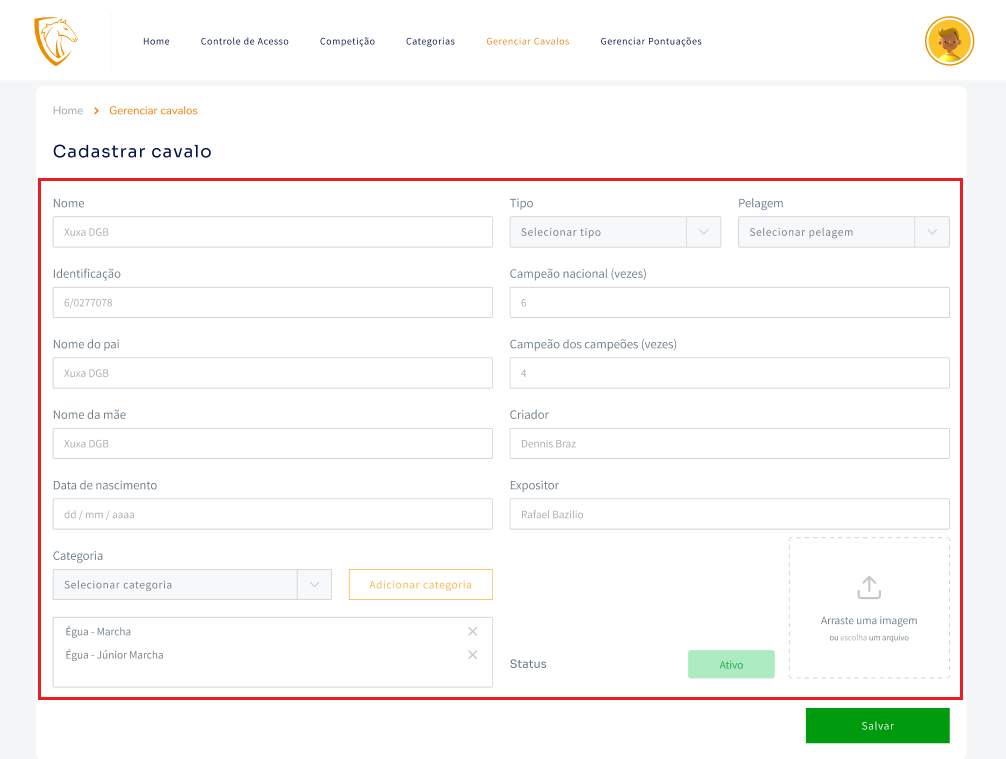
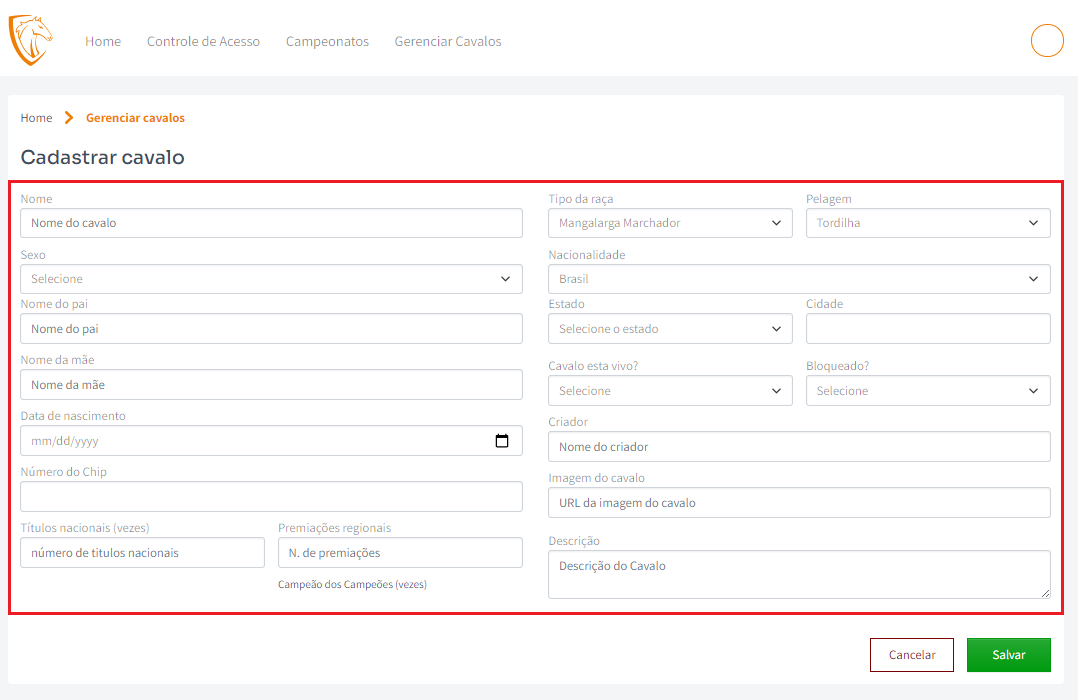
update

diff --git a/docs/Manual do Backoffice/criar-categoria.md b/docs/Manual do Backoffice/criar-categoria.md
@@ -1,26 +1,158 @@
-# CRIAR CATEGORIA
+# GERENCIAR CATEGORIA
 
-## Para criar uma nova categoria, é necessário acessaro o campo de "competição", no menu da plataforma, localizada na parte superior. 
+## COMO CADASTRAR UMA CATEGORIA?
 
-![Criarcategoria](/img/backoffice/menucriarcategoria.png)
+### 1. Acesse a tela de campeonato
 
-### 1. Ao entrar na página de cadastro, é necessário inserir o nome do competidor. 
+### 2. Clique no icone de setas no campeonato que deseja cadastrar uma categoria
 
-![Criarcategoria](/img/backoffice/nomedocavalo.png)
+![Campeonato](/img/backoffice/campeonato9.png)
 
-### 2. Inserir a quantidade de cavalos competidores. 
+### 3. Clique no botão de "+" em "Cadastrar categoria"
 
-![Criarcategoria](/img/backoffice/nomedocavalo.png)
+![Categoria](/img/backoffice/categoria1.png)
 
-### 3. Adicionar cavalos na categoria. 
+### 4. Insira todos os parâmetros necessarios
 
-![Criarcategoria](/img/backoffice/nomedocavalo.png)
+![Categoria](/img/backoffice/categoria2.png)
 
-### 4. Adicionar a descrição. 
+:::note VALOR DO CAVALO
 
-![Criarcategoria](/img/backoffice/descricaocategoria.png)
+- Valor base do cavalo: É o valor minimo que um cavalo pode valer
 
-### 5. Definir status
+> Exemplo: 50
 
-![Criarcategoria](/img/backoffice/definirstatus.png)
+- Modificador 1 do valor: É o multiplicador de valor do cavalo sobre o numero de vezes que ele foi campeão nacional, geralmente é 5.
 
+> Exemplo: 50 + 5(Multiplicador) x 2(Vezes campeão nacional) = 60
+
+- Modificador 2 do valor: É o multiplicador de valor do cavalo sobre o numero de vezes que foi campeão dos campeões nacional ou regional, geralmente é 1.
+
+> Exemplo: 60(Já com o multiplicador 1) + 1(Multiplicador) x 2(Vezes campeão dos campeões) = 62
+>
+>62 é o valor final do cavalo.
+
+:::
+
+### 5. Adicione os pontos por posição e pontos bônus
+
+![Categoria](/img/backoffice/categoria3.png)
+
+:::note PONTOS
+
+- Pontos por posição:
+    - Na ordem em que forem adicionados, é quanto o usuário vai pontuar de acordo com a posição.
+
+> Exemplo: 
+
+| POSIÇÃO | PONTOS |
+| ------- | ------ |
+| 1 | 20 |
+| 2 | 17 |
+| 3 | 14 |
+| 4 | 12 |
+| 5 | 10 |
+
+- Pontos bônus:
+    - Pontos a mais que o usuário pode fazer com base no numero de acertos.
+
+> Exemplo:
+
+| ACERTOU | PONTOS BONÛS |
+| ------- | ------------ |
+| 0 | 0 |
+| 1 | 0 |
+| 2 | 0 |
+| 3 | 1 |
+| 4 | 3 |
+| 5 | 7 |
+
+:::
+
+### 6. Clique em "Salvar"
+
+![Categoria](/img/backoffice/categoria4.png)
+
+## COMO EDITAR UMA CATEGORIA?
+
+### 1. Clique no icone de "Lapis"
+
+![Categoria](/img/backoffice/categoria5.png)
+
+### 2. Altere os parâmetros que desejar
+
+![Categoria](/img/backoffice/categoria6.png)
+
+### 3. Clique em "Salvar"
+
+![Categoria](/img/backoffice/categoria7.png)
+
+## COMO MODIFICAR O STATUS DA CATEGORIA?
+
+### 1. Clique no icone de Setas
+
+![Categoria](/img/backoffice/categoria8.png)
+
+### 2. Selecione um Status novo
+
+![Categoria](/img/backoffice/categoria9.png)
+
+### 3. Clique em "Salvar"
+
+## COMO ADICIONAR UM CAVALO NA CATEGORIA?
+
+### 1. Clique no icone de Setas
+
+![Categoria](/img/backoffice/categoria8.png)
+
+### 2. Clique no icone de "+" em Adicionar cavalo
+
+![Categoria](/img/backoffice/categoria10.png)
+
+### 3. Selecione um parâmetro
+
+![Categoria](/img/backoffice/categoria11.png)
+
+### 4. Digite um valor de busca
+
+![Categoria](/img/backoffice/categoria12.png)
+
+### 5. Clique em "Pesquisar"
+
+### 6. Clique em "Adicionar colete"
+
+![Categoria](/img/backoffice/categoria13.png)
+
+### 7. Digite o Expositor e o numero do colete
+
+![Categoria](/img/backoffice/categoria14.png)
+
+### 8. Clique em "Salvar"
+
+## COMO EDITAR UM CAVALO DA CATEGORIA?
+
+### 1. Clique no icone de lápis
+
+![Categoria](/img/backoffice/categoria15.png)
+
+### 2. Digite o Expositor e o numero do colete
+
+![Categoria](/img/backoffice/categoria14.png)
+
+### 3. Clique em "Salvar"
+
+## COMO CALCULAR O RANKING DA CATEGORIA?
+
+:::note OBSERVAÇÕES
+
+A categoria deve estar com Status "Finalizado" e o cadastro de pontuação feito para poder gerar o Ranking da categoria.
+
+:::
+
+### 1. Clique em "Ranking"
+
+![Categoria](/img/backoffice/categoria16.png)
+
+### 2. Clique em "Calcular ranking categoria"
+
+![Categoria](/img/backoffice/categoria17.png)

diff --git a/docs/Manual do Backoffice/gerenciar-cavalos.md b/docs/Manual do Backoffice/gerenciar-cavalos.md
@@ -1,55 +1,57 @@
 # GERENCIAR CAVALOS
 
+:::note COMO É GERADO O VALOR DO CAVALO?
+
+O valor base de todo cavalo é **50**, mas muda de acordo com o numero de vezes que foi:
+
+- Campeão da categoria em campeonatos **nacionais**.
+- Campeão dos campeões em campeonatos **nacionais** e **regionais**.
+
+| Campeonato | Multiplicador de **Pontos** |
+| ---------- | --------------------------- |
+| Campeão nacional | x5 |
+| Campeão dos campeões | x1 |
+
+**Exemplo:**
+
+| Cavalo | Campeão nacional(vezes) | Campeão dos campeões(vezes) | Valor |
+| ------ | ----------------------- | --------------------------- | ----- |
+| Cavalo 1 | 1 | 0 | 55 |
+| Cavalo 2 | 2 | 3 | 63 |
+| Cavalo 3 | 1 | 1 | 56 |
+
+:::
+
+## COMO ACESSAR A LISTA DE CAVALOS?
+
 ### 1. Acessar a página "gerenciar cavalos", localizada no menu superior da plataforma: 
 
 ![Login](/img/backoffice/home.png)
 
-### 2. Inserir nome do cavalo
+## COMO CADASTRAR UM NOVO CAVALO?
 
-![Login](/img/backoffice/nomedocavalo.png)
+### 1. Clique em "Cadastrar cavalo"
 
-### 3. Inserir pelagem e tipo do cavalo
+![Login](/img/backoffice/cavalo1.png)
 
-![Login](/img/backoffice/pelagemdocavalo.png)
-![Login](/img/backoffice/tipodocavalo.png)
+### 2. Insira todos os parâmetros
 
-### 4. Inserir nome do mãe e do pai 
+![Login](/img/backoffice/cavalo2.png)
 
-![Login](/img/backoffice/mãe.png)
-![Login](/img/backoffice/pai.png)
+### 3. Clique em "Salvar"
 
-### 5. Inserir data de nascimento
+![Login](/img/backoffice/cavalo3.png)
 
-![Login](/img/backoffice/nascimento.png)
+## COMO EDITAR UM CAVALO?
 
-### 6. Inserir categoria
+### 1. Clique no icone de lapis no cavalo que deseja editar
 
-![Login](/img/backoffice/categoriacavalo.png)
+![Login](/img/backoffice/cavalo4.png)
 
-### 7. Inserir o número de vezes que foi campeão nacional 
+### 2. Altere o parâmetro que desejar
 
-![Login](/img/backoffice/xcampeão.png)
+![Login](/img/backoffice/cavalo5.png)
 
-### 8. Inserir o número de vezes em que foi campeão dos campeões
+### 3. Clique em "Salvar" 
 
-![Login](/img/backoffice/xcampeãodoscampeões.png)
-
-### 9. Inserir o criador 
-
-![Login](/img/backoffice/pai.png)
-
-### 10. Inserir o expositor 
-
-![Login](/img/backoffice/expositor.png)
-
-### 11. Verirficar status 
-
-![Login](/img/backoffice/statuscavalo.png)
-
-### 12. Upload de imagem (opcional)
-
-![Login](/img/backoffice/upload.png)
-
-### 13. Salvar registro de cavalo 
-
-![Login](/img/backoffice/salvarcavalo.png) 
+![Login](/img/backoffice/cavalo6.png)

diff --git a/docs/Manual do Backoffice/pontuar.md b/docs/Manual do Backoffice/pontuar.md
@@ -23,6 +23,8 @@ Se você acertou as seguintes posições, você ganha os seguintes pontos:
 | 3 | 14 |
 | 4 | 12 |
 | 5 | 10 |
+| =<6 | 0 |
+
 
 Caso o usuário tenha acertado 3 cavalos ou mais, ele recebera um bonûs de acordo com o numero de acertos.
 
@@ -39,20 +41,26 @@ OBS: Em caso de empate, o prêmio é dividido entre os ganhadores
 
 :::
 
-## COMO INSERIR A PONTUAÇÃO DOS CAVALOS NA COMPETIÇÃO?
+## COMO INSERIR A PONTUAÇÃO DOS CAVALOS NO CAMPEONATO?
 
-### 1. Clique em "Gerenciar pontuação"
+### 1. Clique em Campeonatos no superior da tela
 
-### 2. Selecione uma Competição e uma categoria
+### 2. Clique no icone de setas em um campeonato
 
-![Pontuação](/img/backoffice/ponto1.png)
+![Campeonato](/img/backoffice/campeonato9.png)
 
-### 3. Insira a colocação de cada Cavalo
+### 3. Clique no icone de setas da categoria
 
-- 2 cavalos não podem ter a mesma colocação
+![Categoria](/img/backoffice/categoria8.png)
 
-![Pontuação](/img/backoffice/ponto2.png)
+### 4. Clique em "Pontuação"
 
-### 4. Clique em "Enviar"
+![Pontuação](/img/backoffice/pontuar1.png)
 
-![Pontuação](/img/backoffice/ponto3.png)
+### 5. Insira a pontuação dos cavalos
+
+![Pontuação](/img/backoffice/pontuar2.png)
+
+### 6. Clique em enviar
+
+![Pontuação](/img/backoffice/pontuar3.png)

diff --git a/docs/Manual do Backoffice/campeonato.md b/docs/Manual do Backoffice/campeonato.md
@@ -46,3 +46,14 @@ Quando clicar em "Campeonatos" no canto superior, abrira a lista de campeonatos 
 
 ![Campeonato](/img/backoffice/campeonato10.png)
 
+### 3. Clique em "Salvar"
+
+## COMO CALCULAR O RANKING DO CAMPEONATO?
+
+### 1. Clique em Ranking
+
+![Campeonato](/img/backoffice/campeonato11.png)
+
+### 2. Clique em "Calcular ranking campeonato"
+
+![Campeonato](/img/backoffice/campeonato12.png)
